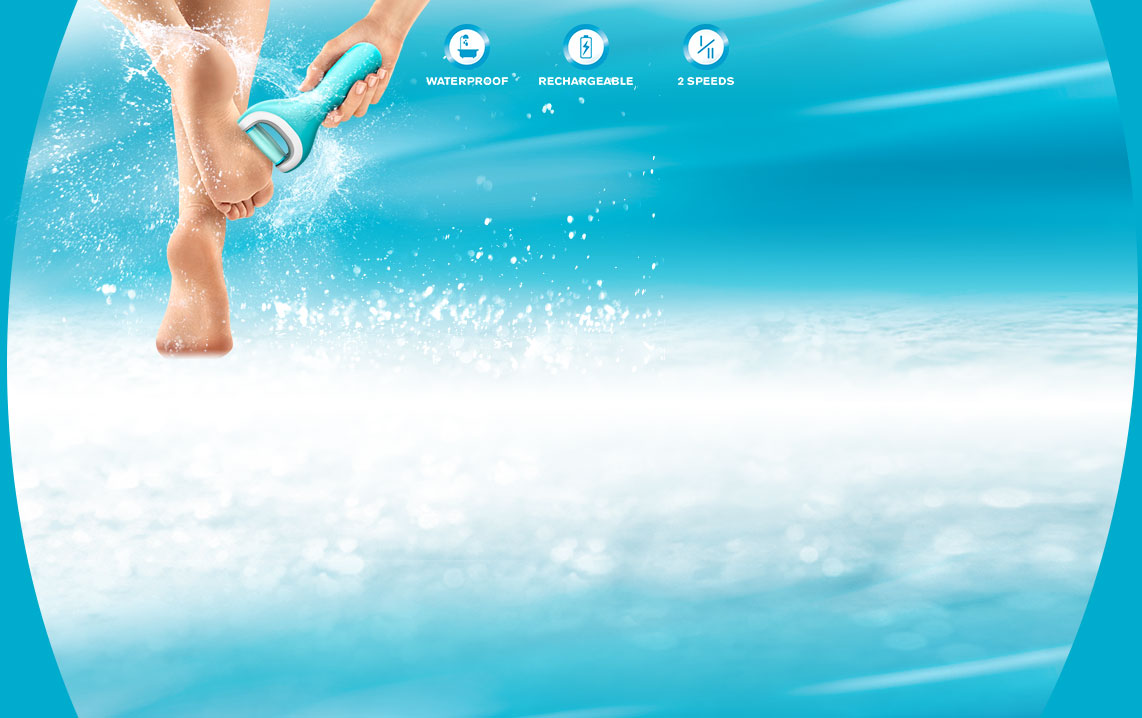
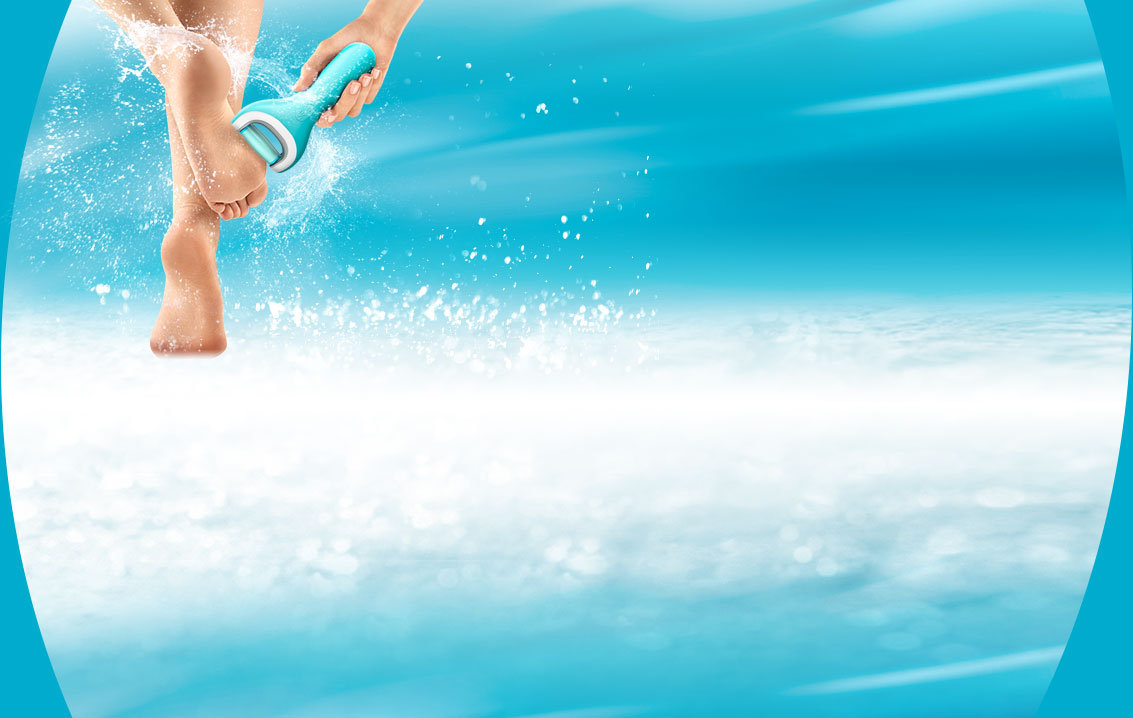
phase 2

diff --git a/src/index.html b/src/index.html
@@ -3,6 +3,7 @@
 
 <head>
     <meta http-equiv="Content-Type" content="text/html; charset=utf-8">   
+    <meta name="viewport" content="initial-scale=1.0, maximum-scale=1.0, width=400">
     <link rel="stylesheet" href="css/style.css">
 </head>
 
@@ -11,6 +12,9 @@
 
     <div class="background">
         <div class="main container">
+            <div class="row features">
+                <img src="img/product-features.png" alt="">
+            </div>
             <div class="row">
                 <div class="content col-sm-5">
                     <div class="shift-left">
@@ -23,14 +27,14 @@
                 </div>
                 <div class="media col-sm-7">
                     <div class="row">
-                        <div class="video"><iframe width="100%" height="100%" src="2200http://player.theplatform.com/p/yT_qKC/2gvtpYhdRrQ5?form=html" frameborder="0" allowfullscreen></iframe></div>
+                        <div class="video"><iframe width="100%" height="100%" src="http://player.theplatform.com/p/yT_qKC/2gvtpYhdRrQ5?form=html" frameborder="0" allowfullscreen></iframe></div>
                     </div>
                     <div class="row">
                         <div class="col-sm-12 video-footer">
                             <a href="http://www.kincommunity.com/" target="_blank"><img src="img/video-footer.jpg" alt=""></a>
                         </div>
                     </div>
-                    <div class="row">
+                    <!-- <div class="row">
                         <div class="col-sm-12 video-carousel">
                             <div class="video-thumbnail" data-video="1"></div>
                             <div class="video-thumbnail" data-video="2"></div>
@@ -39,12 +43,12 @@
                             <div class="video-thumbnail" data-video="2"></div>
                             <div class="video-thumbnail" data-video="3"></div>
                         </div>
-                    </div>
+                    </div> -->
                 </div>
             </div>
             <div class="row">
                 <div class="store col-sm-5">
-                    <a href="http://www.amazon.ca/Amope-Pedi-Perfect-Electronic-Pedicure/dp/B00XR8V9QQ/ref=pd_sim_sbs_364_1?ie=UTF8&refRID=10Q25V8Z868W9W8YTF0E" class="cta"><img src="img/cta-new.png" /></a>
+                    <a href="https://www.amazon.ca/Amope-Rechargeable-Waterproof-Beautiful-Effortlessly/dp/B01BUX9B5U/ref=sr_1_1?s=beauty&ie=UTF8&qid=1460070355&sr=1-1&keywords=wet+and+dry+amope" class="cta"><img src="img/cta-new.png" /></a>
                 </div>
                 <div class="social col-sm-7">
                     <ul>

diff --git a/src/sass/partials/_homepage.scss b/src/sass/partials/_homepage.scss
@@ -3,6 +3,7 @@
 
 	@include breakpoint(small) {
 		// background: #fff;
+		background-position-x: 20%;
 	}
 }
 
@@ -12,13 +13,35 @@
 	// background-color: $teal;
 	margin: 0 auto;
 
+	.features {
+		text-align: center;
+		padding-top: 20px;
+	}
+
 	.content {
 		color: #fff;
-		text-align: center;
-		margin-top: 380px;
+		text-align: center;	
+		margin-top: 300px;
 
 		.shift-left {
 			margin-left: -70px;
+			img {
+				width: 100%;
+				@include breakpoint(small) {
+					width: auto;
+				}
+				@include breakpoint(xsmall) {
+					width: 100%;
+				}
+			}
+			@include breakpoint(medium) {
+				margin-left: 0;
+				p {
+					br {
+						display: none;
+					}
+				}
+			}
 		}
 
 		h1 {
@@ -53,7 +76,7 @@
 	}
 
 	.video {
-		margin-top: 100px;
+		margin-top: 50px;
 		position:relative;
 		padding-bottom:50%;
 		// padding-bottom:56.25%;
@@ -156,6 +179,12 @@
 				}
 			}
 		}
+		@include breakpoint(small) {
+			.arrow-text {
+				display: block;
+				margin: 0 auto 12px;
+			}
+		}
 
 	}
 
@@ -163,6 +192,12 @@
 		text-align: center;
 		img {
 			margin-left: -100px;
+			@include breakpoint(small) {
+				margin-left: 0px;
+			}
+		}
+		@include breakpoint(small) {
+			margin: 12px 0;
 		}
 	}
 

diff --git a/src/sass/partials/_header.scss b/src/sass/partials/_header.scss
@@ -21,6 +21,9 @@ header {
 			.product {
 				position: absolute;
 				margin-top: 0px;
+				right: 0;
+				top: 0;
+				margin-right: 0px;
 			}
 		}
 
@@ -32,6 +35,9 @@ header {
 			.top-logo {
 				.amope {
 					margin-left: 0px;
+				}
+				.product {
+					margin-right: -50px;
 				}
 			}
 		}
@@ -45,26 +51,23 @@ header {
 
 			.top-logo {
 				text-align: center;
-				margin-left: -150px;
 
 				.amope {
 					display: inline-block;
-					margin-top: 20px;
-					margin-left: 20px;
-					margin-right: 20px;
-					margin-bottom: 20px;
-					width: 160px;
+					margin: 0;
+					width: 100px;
 				}
 				.pedi-perfect {
 					display: inline-block;
-					margin-top: 20px;
-					margin-right: 20px;
-					width: 75px;
+					margin: 0;
+					width: 100px;
 				}
 				.product {
-					position: absolute;
-					margin-top: -10px;
-					width: 150px;
+					display: inline-block;
+					position: relative;
+					margin: 0;
+					// margin: 0 auto;
+					width: 100px;
 				}
 			}
 

diff --git a/src/sass/partials/_constants.scss b/src/sass/partials/_constants.scss
@@ -5,6 +5,9 @@ $white: #fff;
 $small: 750px;
 
  @mixin breakpoint($point) {
+ @if $point == xsmall {
+     @media (max-width: 400px)  { @content ; }
+  }
   @if $point == small {
      @media (max-width: 768px)  { @content ; }
   }
